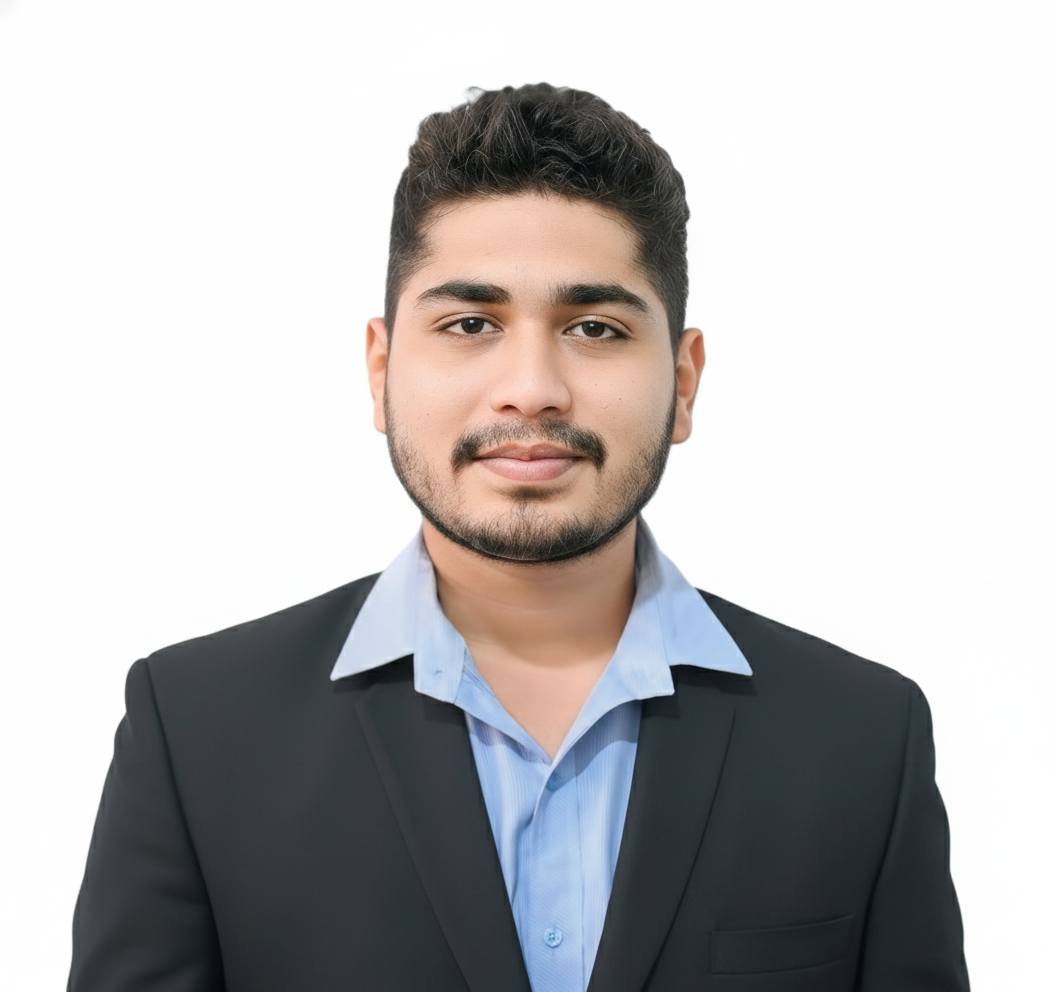
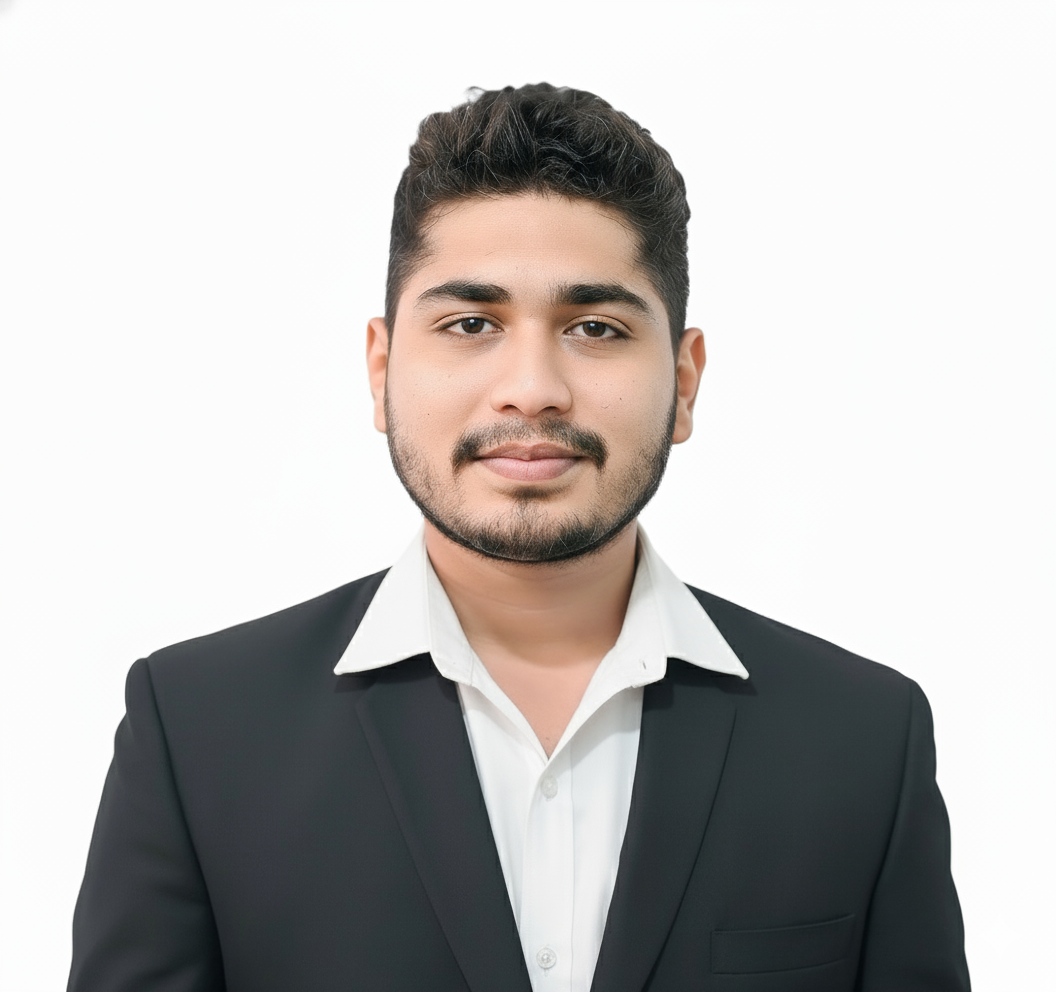
Minor change in pics

diff --git a/src/data/members.js b/src/data/members.js
@@ -20,7 +20,7 @@ export const members = [
     { "name": "Shaik Abdul Sameer", "designation": "Club Manager", "year": 3, "department": "CE", "regdNo": "24L35A0141", "image": "/Sameer Club Manager.jpg" },
     { "name": "K. Uday Bhaskar", "designation": "Club Manager", "year": 3, "department": "ME", "regdNo": "23L31A0383", "image": "/Uday.jpg" },
     { "name": "K. Pavan Kumar", "designation": "Club Manager", "year": 3, "department": "ECE", "regdNo": "23L31A0494", "image": "/Pavan Club Manager.jpg" },
-    { "name": "Mahamed Mastan Jani", "designation": "Club Manager", "year": 3, "department": "CSE", "regdNo": "23L31A05F2", "image": "/Mastan.jpg" },
+    { "name": "Mahamed Mastan Jani", "designation": "Club Manager", "year": 3, "department": "CSE", "regdNo": "23L31A05F2", "image": "/Jani.jpg" },
     { "name": "V. Yashash Chandra", "designation": "Club Manager", "year": 3, "department": "CSE", "regdNo": "23L31A05O8", "image": "/Yashash.jpg" },
     { "name": "Y. Tushar", "designation": "Club Manager", "year": 3, "department": "CSE", "regdNo": "23L31A05Q1", "image": "/Tushar.jpg" },
     { "name": "Shajid Shaik", "designation": "Club Manager", "year": 3, "department": "ECM", "regdNo": "23L31A1962", "image": "/Shajid.jpg" },
